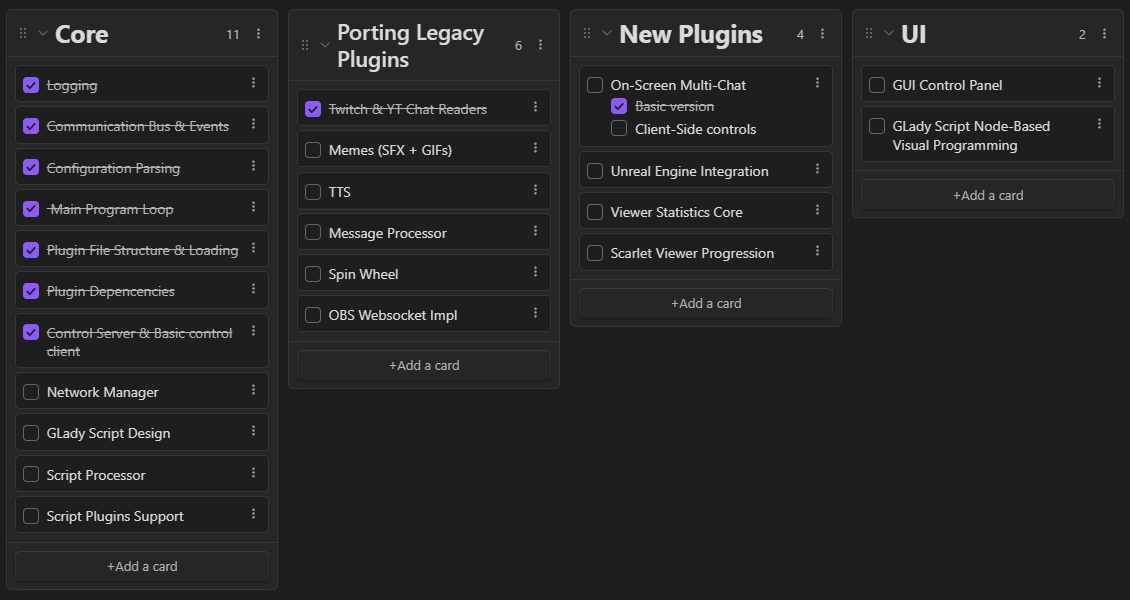
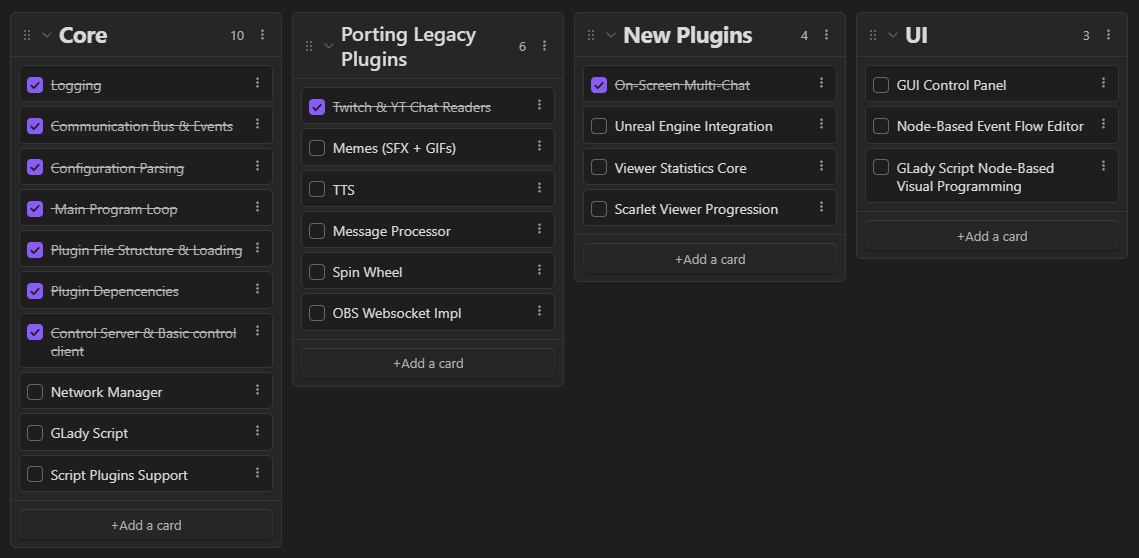
[DOCS] Roadmap Update

diff --git a/GLady Documentation/Roadmap.md b/GLady Documentation/Roadmap.md
@@ -14,8 +14,7 @@ kanban-plugin: board
 - [ ] * [x] Plugin Depencencies
 - [ ] * [x] Control Server & Basic control client
 - [ ] * [ ] Network Manager
-- [ ] * [ ] GLady Script Design
-- [ ] * [ ] Script Processor
+- [ ] * [ ] GLady Script
 - [ ] * [ ] Script Plugins Support
 
 
@@ -31,9 +30,7 @@ kanban-plugin: board
 
 ## # New Plugins
 
-- [ ] * [ ] On-Screen Multi-Chat
-		* [x] Basic version
-		* [ ] Client-Side controls
+- [ ] * [x] On-Screen Multi-Chat
 - [ ] * [ ] Unreal Engine Integration
 - [ ] * [ ] Viewer Statistics Core
 - [ ] * [ ] Scarlet Viewer Progression
@@ -42,6 +39,7 @@ kanban-plugin: board
 ## # UI
 
 - [ ] * [ ] GUI Control Panel
+- [ ] * [ ] Node-Based Event Flow Editor
 - [ ] * [ ] GLady Script Node-Based Visual Programming
 
 
